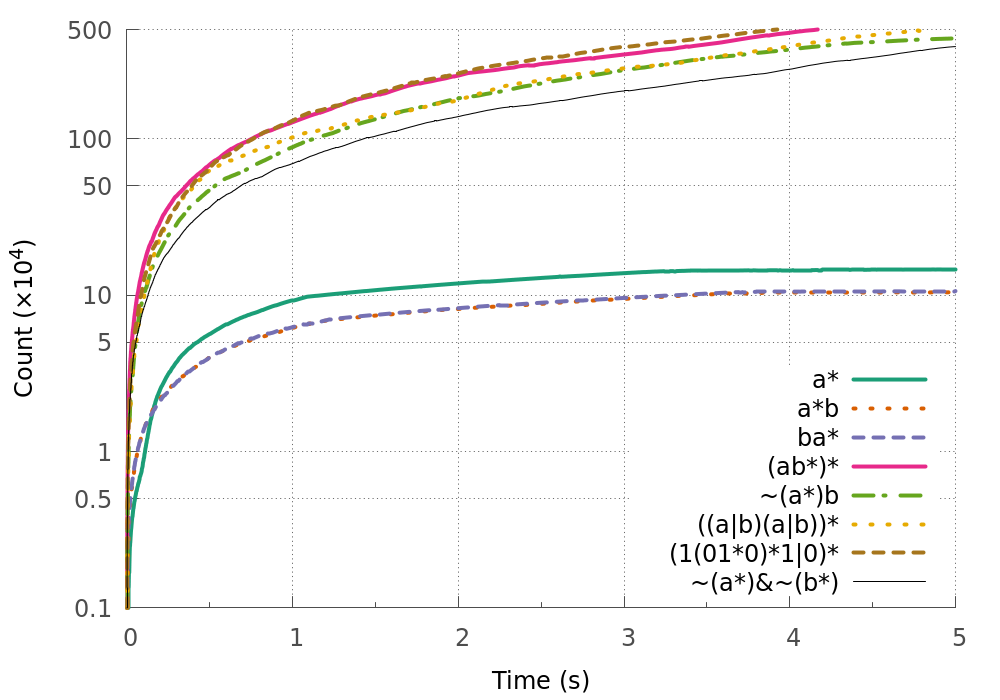
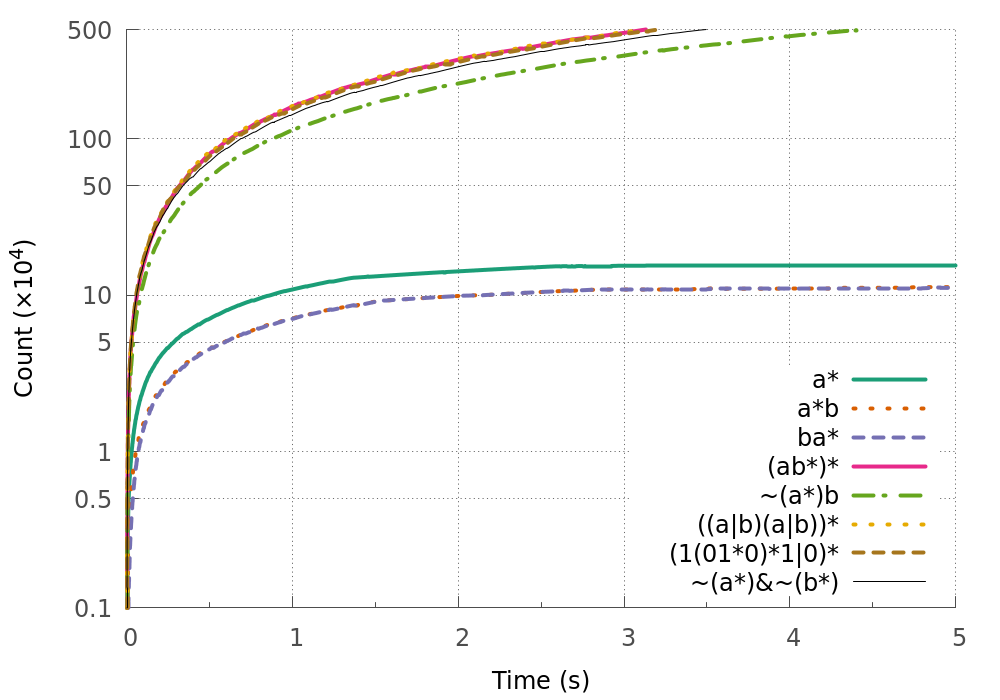
Rework the bench section.

Changed region(s): [[0.124, 0.03, 0.961, 0.78]]

diff --git a/bench.tex b/bench.tex
@@ -42,11 +42,15 @@ strengths and weaknesses of the different approaches.
   evaluation measures the performance of \code{star} on a non-sparse
   language and of {concatenation} applied to a finite and an infinite
   language.
-\item $\Rconcat{\Rcomplement{(\Rstar{a})}}{b}$: Finally, this regular
+\item $\Rconcat{\Rcomplement{(\Rstar{a})}}{b}$: This regular
   expression exercises the complement operation and tests the
   concatenation of a very large language, 
   $P (w\in \Lang{\Rcomplement{(\Rstar a)}}) = 1$, to a much smaller
   language.
+\item $\Rintersect{\Rcomplement{(\Rstar{a})}}{\Rcomplement{(\Rstar{b})}}$:
+  This regular expression applies {intersection} to two large languages
+  and make use of the complement. Its goal is to measure the efficiency
+  of set operations.
 \end{itemize}
 
 \begin{figure}[!t]
@@ -58,30 +62,27 @@ strengths and weaknesses of the different approaches.
 
 In the evaluation, we consider five variants of the Haskell implementation.
 \begin{itemize}
-\item The \textbf{naive} implementation corresponds to the code developed by
-  the end of Section~\ref{sec:motivation}. It transforms to and from
-  segments on the fly and uses plain list indexing.
+\item \textbf{McIlroy} is our implementation of
+  the algorithm by \citet{DBLP:journals/jfp/McIlroy99}.
 \item The \textbf{seg} implementation uses the infinite list-based segmented
-  representation throughout (\cref{sec:segm-repr}). Moreover,
-  it relies on maps and sparse indexing for concatenation and closure
-  (\cref{sec:sparse-indexing}).
+  representation throughout (\cref{sec:segm-repr}).
 \item The \textbf{segConv} implementation additionally
-  applies the convolution approach presented in \cref{sec:convolution}.
-\item The \textbf{ref} implementation uses symbolic segments
-  from \cref{sec:more-finite-repr} combined with
-  maps and sparse indexing.
+  applies the convolution approach (\cref{sec:convolution,sec:faster-closure}).
+% \item The \textbf{ref} implementation uses symbolic segments
+%   from \cref{sec:more-finite-repr} combined with
+%   maps and sparse indexing.
 \item The \textbf{refConv} implementation combines
-   symbolic segments, sparse indexing, and the convolution approach.
+   symbolic segments (\cref{sec:segm-repr,sec:more-finite-repr}) with the convolution approach.
 \end{itemize}
 
 Performances are evaluated by iterating through the stream of words
-produced by the generator, forcing their evaluation.\footnote{In
+produced by the generator, forcing their evaluation\footnote{In
   Haskell, forcing is done using \lstinline{Control.DeepSeq}.}
 and recording the elapsed timed every 20 words.
 We stop the iteration after 5 seconds.
-The resulting graph plots the time (x-axis) against the number of words (y-axis) produced so far. The slope of the graph in indicates the generation speed of the plotted algorithm, high slope is correlated to high generation speed.  \cref{bench:haskell:all} contains the results for the Haskell implementations.
-
-Most algorithms generate between 3000 and 150000 words in the first
+The resulting graph plots the time (x-axis) against the number of words (y-axis) produced so far. The slope of the graph indicates the generation speed of the plotted algorithm, high slope is correlated to high generation speed.  \cref{bench:haskell:all} contains the results for the Haskell implementations.
+ 
+Most algorithms generate between $1.3\cdot10^3$ and $1.4\cdot10^6$ words in the first
 second, which seems more than sufficient for testing purposes.
 The \textbf{refConv} implementation
 which uses symbolic segments and convolutions is consistently in the
@@ -91,24 +92,23 @@ leading group.
 This observation validates that the
 changes proposed in \cref{sec:improvements} actually lead to
 improvements.
-
-Looking at each graph in more detail, we can make the following
+%
+Looking at each graph in detail, we can make the following
 remarks:
 \begin{itemize}[leftmargin=*]
 \item All implementations are equally fast on $\Rstar a$ except
-  the naive implementation, which  relies on list lookups without
+  \textbf{McIlroy}, which relies on list lookups without
   sparse indexing.
-\item For $\Rstar{(\Rconcat{a}{\Rstar{b}})}$ and
-  $\Rconcat{\Rcomplement{(\Rstar{a})}}{b}$, the graph of some implementations
+\item The graph of some implementations
   has the shape of ``skewed stairs''. We believe this phenomenon is due to
   insufficient laziness: when arriving at a new segment, part of the
   work is done eagerly which causes a plateau. When that part is done,
   the enumeration proceeds lazily.  As laziness and GHC
   optimizations are hard to control, we did not attempt to correct this.
-\item $\Rstar{(\Rconcat{a}{\Rstar{b}})}$ demonstrates that sparse indexing
-  does degrade performance when applying \code{star} to non-sparse languages.
-  Using the convolution technique presented in \cref{sec:convolution} resolves this problem.
-\item The \textbf{ref} and \textbf{refConv} algorithms are
+\item $\Rstar{(\Rconcat{a}{\Rstar{b}})}$ demonstrates that
+  the convolution technique presented in \cref{sec:convolution}
+  leads to significant improvements when applying \code{star} to non-sparse languages.
+\item The \textbf{refConv} algorithm is
   significantly faster on $\Rconcat{\Rcomplement{(\Rstar{a})}}{b}$
   compared to \textbf{seg} and \textbf{segConv}. We have no good
   explanation for this behavior as the code is identical up to the
@@ -117,12 +117,15 @@ remarks:
   is $\Lang{b}$, which is also represented finitely by
   \textbf{segConv} and should thus benefit from the convolution
   improvement in the same way as \textbf{refConv}.
+\item $\Rstar{(\Rconcat{a}{\Rstar{b}})}$ shows that all our algorithm have similar
+  performance profiles on set-operation. They are also significantly
+  faster than \textbf{McIlroy}.
 \end{itemize}
 
 
 \subsection{Comparing Data Structures in the \ocaml Implementation}
 \label{sec:bench:ocaml}
-\begin{figure}[!p]
+\begin{figure}[!tb]
   \centering
   \includegraphics[width=\linewidth]{measure/ocaml_all.png}
   \caption{Benchmark for the \ocaml implementation with various data-structures}
@@ -169,31 +172,9 @@ We can however make the following remarks.
   It seems that the linear cost of memoizing the thunk list and
   allocating the vectors
   is often higher than simply recomputing lists.
+\item $\Rstar{(\Rconcat{a}{\Rstar{b}})}$ shows that sorted enumerations and tries
+  perform well on set-operations, even compared to strict sets.
 \end{itemize}
-
-
-
-While the regular expressions presented previously do exercise
-\code{concatenation} and \code{star}, they do not exercise set
-operations.  To test set operations on non-trivial segments (that are
-neither full nor empty), we consider the language of words with at
-least one $a$ and one $b$. This language can be built in two ways:
-$\Rintersect{\Rcomplement{(\Rstar{a})}}{\Rcomplement{(\Rstar{b})}}$
-and $\Rconcat{(\Runion{a\Rstar{a}b}{b\Rstar{b}a})}{\Rstar{\Sigma}}$.
-The first expression applies {intersection} to two large languages,
-the second expression takes the union of smaller languages, but uses a
-concatenation.  The results are shown \cref{bench:ocaml:union}.
-Lazy and thunk lists, with or without
-memoization, perform well on unions and intersections but less so
-on concatenations. Performance of
-strict sets is surprisingly poor.
-Tries are very efficient on concatenations.
-
-% \begin{figure}[!t]
-%   \includegraphics[width=\linewidth]{measure/ocaml_union.png}
-%   \caption{Benchmarking \texttt{union} in the \ocaml data-structures}
-%   \label{bench:ocaml:union}
-% \end{figure}
 
 \subsection{The Influence of Regular Expressions on Performance}
 \begin{figure*}[!tp]

diff --git a/ocaml.tex b/ocaml.tex
@@ -142,10 +142,11 @@ and lang = unit -> node
 
 An enumeration is represented by a function which takes a unit argument and returns
 a node. A node, in turn, is either \code{Nothing} or a \code{Cons} of an
-element and the tail of the sequence. The empty enumeration, for instance, is
-represented as \code{fun () -> Nothing}.
-This representation is lazy, fast, lightweight, and almost as easy to
-manipulate as regular lists.
+element and the tail of the sequence.
+% The empty enumeration, for instance, is
+% represented as \code{fun () -> Nothing}.
+% This representation is lazy, fast, lightweight, and almost as easy to
+% manipulate as regular lists.
 % \footnote{See
 %   \url{https://github.com/ocaml/ocaml/pull/1002} for a long discussion
 %   on the topic.}
@@ -156,7 +157,7 @@ full languages symbolically, as in \cref{sec:more-finite-repr}.
 As an example, the implementation of language union is shown below.
 The trailing unit argument \code{()} drive the evaluation of the
 sequence lazily. With this definition, \code{union s1 s2} cause no
-evaluation before is applied to \code{()}.
+evaluation before it is applied to \code{()}.
 \begin{lstlisting}
 let rec union s1 s2 () = match s1(), s2() with
   | Nothing, x | x, Nothing -> x
@@ -230,12 +231,12 @@ Our parameterized implementation enables experimentation with various
 data structures for segments. We present several possibilities before
 comparing their performance.
 
-\subsubsection{Ordered enumerations}
+\paragraph{Ordered enumerations}
 
 Ordered enumerations, represented by thunk-lists, make
 for a light-weight set representation.
-To use an order, we require a comparison and an
-\code{append} function on words.  The \code{OrderedMonoid} signature
+To use an order, we require \code{compare} and
+\code{append} on words.  The \code{OrderedMonoid} signature
 captures these requirements. \autoref{code:thunklist} shows the
 resulting functor \code{ThunkList}.
 
@@ -288,14 +289,15 @@ module ThunkList (Elt : OrderedMonoid) :
   \label{code:thunklist}
 \end{figure}
 
-\subsubsection{Transience and Memoization}
+\paragraph{Transience and Memoization}
 
 During concatenation and star, we iterate over segments multiple times.
 As thunk lists are transient, iterating multiple times over the same list
 will compute it multiple times. To avoid this recomputation, we can implement memoization
-over thunk lists by pushing the elements in a growing vector as they are
-computed. Before evaluating a new thunk, we first check if it is already available
-in the vector. Otherwise, evaluate it, push it into the vector and return it.
+over thunk lists by using a growing vector as cache.
+% pushing the elements in a growing vector as they are
+% computed. Before evaluating a new thunk, we first check if it is already available
+% in the vector. Otherwise, evaluate it, push it into the vector and return it.
 % \begin{lstlisting}
 % let memoize f =
 %   let r = CCVector.create () in
@@ -318,21 +320,21 @@ if this operation is worthwhile we implemented two modules:
 \code{ThunkList} where memoization is the identity and \code{ThunkListMemo}
 with the implementation described above.
 
-\subsubsection{Lazy Lists}
+\paragraph{Lazy Lists}
 
-\ocaml also supports regular lazy lists using the builtin \code{Lazy.t} type:
-
-\begin{lstlisting}
-type 'a node =
-  | Nil
-  | Cons of 'a * 'a lazylist
-type 'a lazylist = 'a node Lazy.t
-\end{lstlisting}
-
-We implemented a \code{LazyList} functor which is identical to the
+\ocaml also supports regular lazy lists using the builtin \code{Lazy.t} type.
+%
+% \begin{lstlisting}
+% type 'a node =
+%   | Nil
+%   | Cons of 'a * 'a lazylist
+% type 'a lazylist = 'a node Lazy.t
+% \end{lstlisting}
+%
+We implemented a \code{LazyList} functor which is identical to
 \code{ThunkList} but uses lazy lists.
 
-\subsubsection{Strict Sets}
+\paragraph{Strict Sets}
 
 As the main operations on segments are set operations, one might 
 expect a set implementation to perform well. We implemented segments as sets
@@ -342,7 +344,7 @@ The only operations not implemented by \ocaml's standard library are
 the n-way merge and the product.
 %, which can be implemented using folds and unions.
 
-\subsubsection{Tries}
+\paragraph{Tries}
 
 Tries \cite{Fredkin1960} are prefix trees where each branch is labeled
 with a character and each node may contain a value. Tries are commonly used

diff --git a/testing.tex b/testing.tex
@@ -14,7 +14,7 @@ Both libraries provide test harnesses which generate
 regular expressions with positive and negative samples. The
 implementation under test compiles the regular expression and applies it to the samples. 
 The library exposes a sample generator in the style of
-property testing such as QuickCheck~\cite{DBLP:conf/icfp/ClaessenH00}.
+property testing libraries such as QuickCheck~\cite{DBLP:conf/icfp/ClaessenH00}.
 This way we can use the tooling already available in such libraries.
 %
 The simplified API of the \ocaml version is shown below.
@@ -33,7 +33,7 @@ val arbitrary:
 
 Regular expressions are easy to generate using QuickCheck-like
 libraries as they are represented by an algebraic datatype.  We
-restrict generated regular expressions to the star-height less than
+restrict generated regular expressions to star-heights less than
 3. While our technique can be used for regular expressions with
 arbitrarily nested repetitions, it can cause slowdown and large memory
 consumption which are inconvenient in the context of automated

diff --git a/conclusions.tex b/conclusions.tex
@@ -13,7 +13,7 @@ in data structures. We then measured the performance of these implementations.
 Even though our implementations are not heavily optimized, our approach generates
 languages at a rate that is more than sufficient for testing
 purposes, between $1.3\cdot10^3$ and $1.4\cdot10^6$ strings per seconds.
-We can now to combine our generator with property based testing
+We can then combine our generator with property based testing
 to test regular expression parsers on randomly-generated regular expressions.
 While our approach eliminated the need for an oracle, the burden of correctness
 now lies on the language generator. We would like to implement our algorithm
